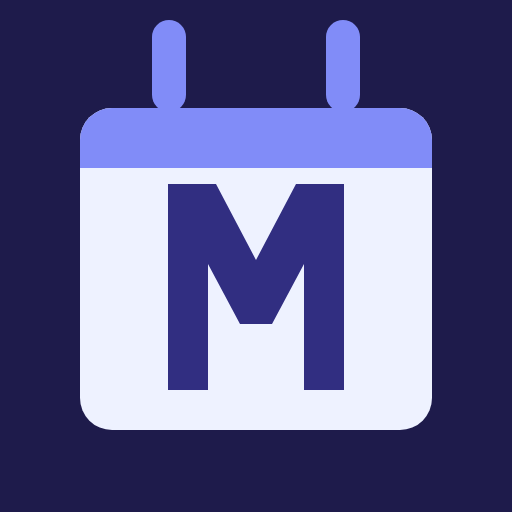
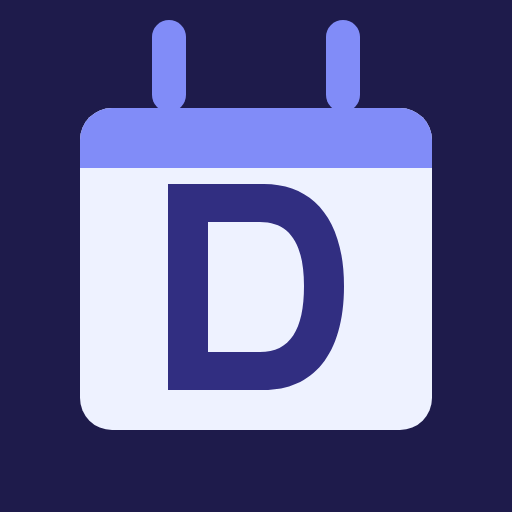
Rename the app to Doteraj Me
Majstorica names half the target audience out of the picture — it is
grammatically feminine, and the spec explicitly includes male barbers
among the solo professionals this product serves.

Doteraj Me plays on the same "Zakazi Me" naming pattern already proven
in this market, but with a verb that describes what actually happens
at the appointment instead of the act of booking it, and the imperative
form carries no grammatical gender either way.

The icon keeps the same calendar-card construction, only the letter
changes again, from M to D.

Claude-Session: https://claude.ai/code/session_015R2qnjtR9sKoA6XZzpX7vq

Changed region(s): [[0.4062, 0.3438, 0.6875, 0.7812]]

diff --git a/lib/domain/ics.ts b/lib/domain/ics.ts
@@ -74,7 +74,7 @@ export function buildCalendarEvent(event: CalendarEvent): string {
   const lines = [
     "BEGIN:VCALENDAR",
     "VERSION:2.0",
-    "PRODID:-//Majstorica//sr",
+    "PRODID:-//Doteraj Me//sr",
     "CALSCALE:GREGORIAN",
     "METHOD:PUBLISH",
     "BEGIN:VEVENT",

diff --git a/lib/i18n/sr.ts b/lib/i18n/sr.ts
@@ -1,6 +1,6 @@
 export const sr = {
   app: {
-    name: "Majstorica",
+    name: "Doteraj Me",
     description: "Zakazivanje termina za beauty profesionalce",
   },
   signIn: {

diff --git a/docs/faza-2.md b/docs/faza-2.md
@@ -319,7 +319,7 @@ značilo migraciju puta broj salona pri svakoj izmeni.
 Šta Faza 2 radi za ekspanziju, i to je namerno malo:
 
 1. Tenant se nikad ne hardkoduje — razrešava se iz slug-a, na jednom mestu. Kad
-   kasnije dođe `milica.majstorica.rs`, menja se ta jedna funkcija.
+   kasnije dođe `milica.doterajme.rs`, menja se ta jedna funkcija.
 2. Javna stranica ide preko `[tenantSlug]` od prvog dana, iako imamo jedan salon.
 
 Boja, logo, pozivnice za nove vlasnike, custom domeni i super-admin ne ulaze

diff --git a/README.md b/README.md
@@ -1,4 +1,4 @@
-# Majstorica
+# Doteraj Me
 
 Sistem za zakazivanje termina za solo beauty profesionalce u Srbiji.
 Specifikacija proizvoda i pravila razvoja su u [`CLAUDE.md`](./CLAUDE.md).

diff --git a/CLAUDE.md b/CLAUDE.md
@@ -1,4 +1,4 @@
-# Majstorica — sistem za zakazivanje termina
+# Doteraj Me — sistem za zakazivanje termina
 
 ## Šta gradimo
 
